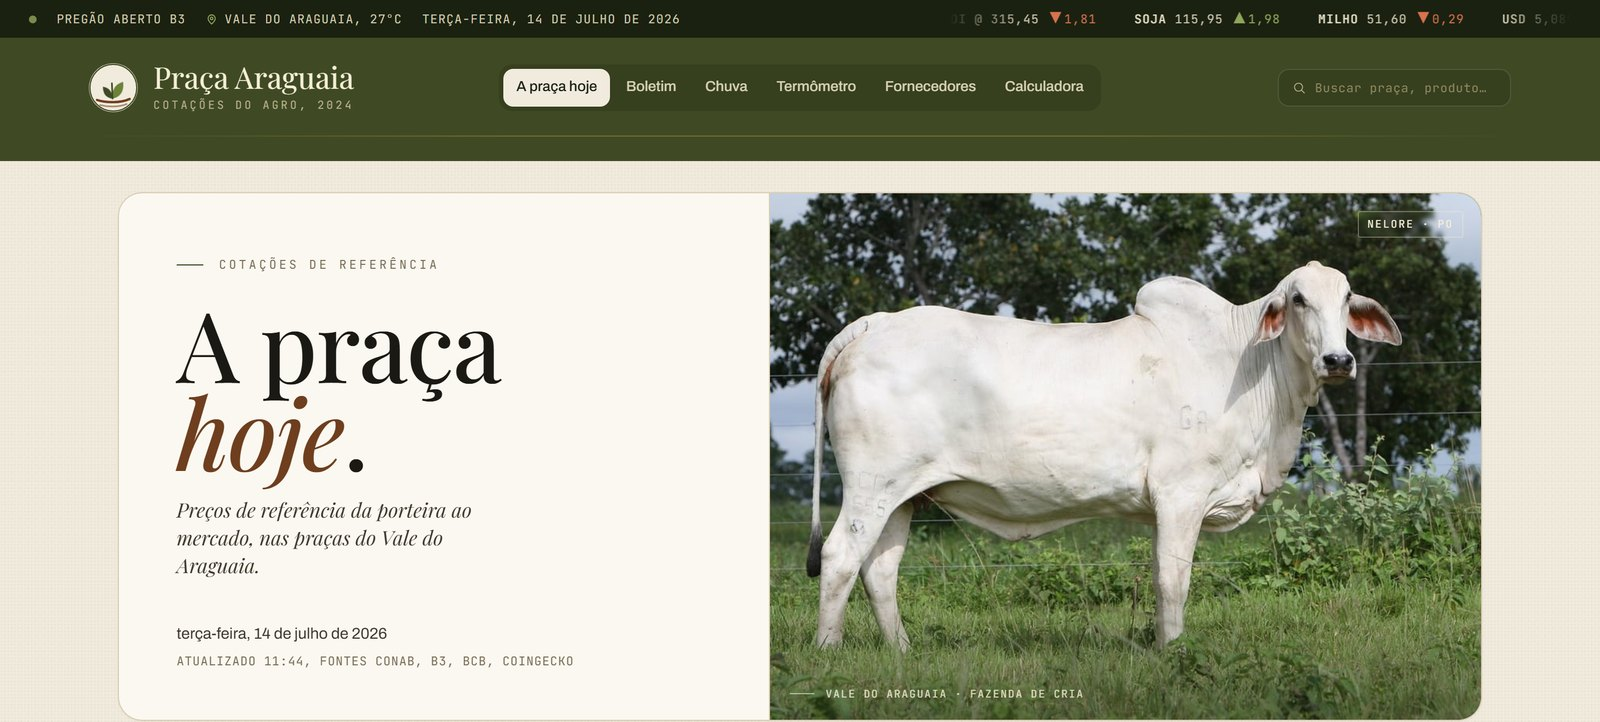
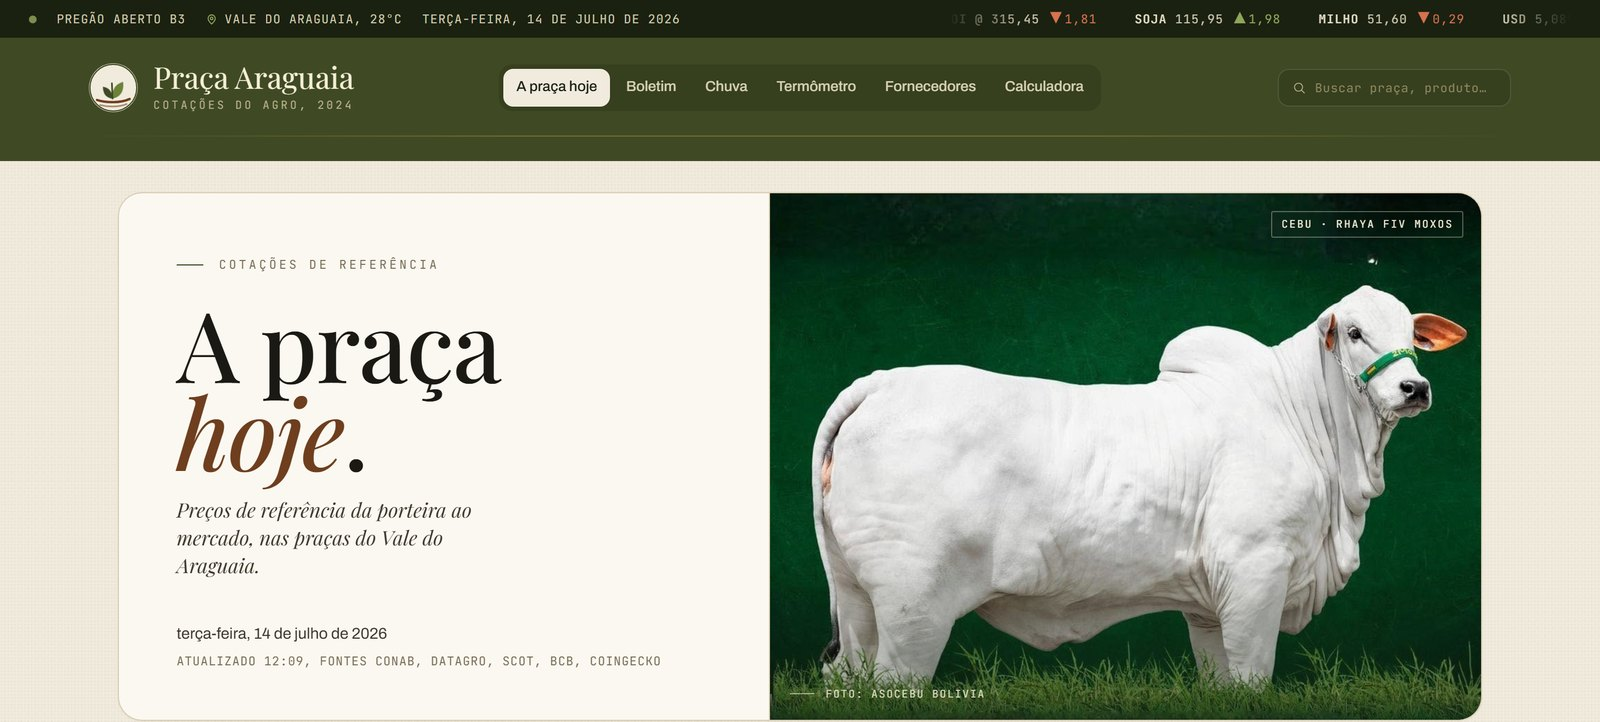
fix(telegram): URL unica por envio + hero com o cebu Rhaya FIV Moxos
O card do Telegram chegava com o layout antigo mesmo depois do deploy: o Telegram
cacheia foto remota POR URL, e a nossa so variava por dia (?d=<data>). Como o cron
das 8h ja tinha enviado aquela URL de manha, o reenvio no mesmo dia devolvia o
arquivo que ele ja tinha baixado. Agora a URL leva tambem o minuto do envio, o que
fura o cache do Telegram e o do CDN (s-maxage 1h).

Hero: entra o touro cebu Rhaya FIV Moxos. Foto de terceiro — o credito ao Asocebu
Bolivia fica na propria imagem, e a legenda deixou de dizer "Vale do Araguaia ·
fazenda de cria", que seria falso para um animal nascido na Bolivia. Enquadramento
ajustado (a foto e quadrada num quadro paisagem): sobra grama embaixo e a cabeca
nao encosta na borda.

README: prints refeitos com o hero novo.

diff --git a/app/globals.css b/app/globals.css
@@ -228,7 +228,9 @@ body { font-size: 14px; }
 .hero .meta .big{font-family:var(--sans);font-size:14px;color:var(--ink-2)}
 .hero .meta .mono{font-family:var(--mono);font-size:11px;letter-spacing:.05em;text-transform:uppercase;color:var(--muted)}
 .hero .photo{position:relative;overflow:hidden;border-left:1px solid var(--rule);background:var(--olive-deep)}
-.hero .photo img{position:absolute;inset:0;width:100%;height:100%;object-fit:cover;object-position:60% 40%}
+/* A foto do cebu é quadrada num quadro paisagem: o corte tem de sobrar grama embaixo
+   e não encostar a cabeça na borda direita. */
+.hero .photo img{position:absolute;inset:0;width:100%;height:100%;object-fit:cover;object-position:45% 58%}
 .hero .photo .overlay{position:absolute;inset:0;background:linear-gradient(0deg,rgba(24,32,16,.42) 0%,rgba(24,32,16,0) 32%)}
 .tag{position:absolute;top:16px;right:16px;font-family:var(--mono);font-size:9.5px;letter-spacing:.14em;text-transform:uppercase;color:#F6EFD8;border:1px solid rgba(246,239,216,.35);border-radius:2px;padding:4px 8px;backdrop-filter:blur(2px)}
 .credit{position:absolute;left:18px;bottom:16px;display:flex;align-items:center;gap:10px;font-family:var(--mono);font-size:9.5px;letter-spacing:.12em;text-transform:uppercase;color:rgba(246,239,216,.85)}

diff --git a/tests/telegram-boletim.test.ts b/tests/telegram-boletim.test.ts
@@ -17,14 +17,21 @@ describe('legendaBoletim', () => {
 });
 
 describe('urlFotoBoletim', () => {
-  it('aponta pro boletim com cache-buster ?d= na data local', () => {
-    expect(urlFotoBoletim(AGORA)).toBe('https://agroapp-bay.vercel.app/api/boletim?d=2026-07-05');
+  it('aponta pro boletim com a data local', () => {
+    expect(urlFotoBoletim(AGORA)).toContain('https://agroapp-bay.vercel.app/api/boletim?d=2026-07-05');
   });
 
   it('usa a data no fuso America/Araguaina, não UTC', () => {
     // 01:00 UTC ainda é 04/07 22:00 no Araguaia (-03:00)
-    expect(urlFotoBoletim(new Date('2026-07-05T01:00:00Z'))).toBe(
-      'https://agroapp-bay.vercel.app/api/boletim?d=2026-07-04',
-    );
+    expect(urlFotoBoletim(new Date('2026-07-05T01:00:00Z'))).toContain('?d=2026-07-04');
+  });
+
+  // O Telegram cacheia foto remota por URL: sem isto, um reenvio no mesmo dia
+  // devolvia o card antigo que ele já tinha baixado.
+  it('a URL muda a cada envio, para o Telegram não servir o card do cache', () => {
+    const a = urlFotoBoletim(new Date('2026-07-05T13:00:00Z'));
+    const b = urlFotoBoletim(new Date('2026-07-05T13:05:00Z'));
+    expect(a).not.toBe(b);
+    expect(a).toMatch(/&t=\d+$/);
   });
 });

diff --git a/app/page.tsx b/app/page.tsx
@@ -124,11 +124,12 @@ export default async function Home() {
           <SuaPraca />
         </div>
         <div className="photo">
+          {/* Foto de terceiro: o crédito ao Asocebu Bolivia fica na imagem, não é decorativo. */}
           {/* eslint-disable-next-line @next/next/no-img-element */}
-          <img src="/assets/hero-nelore.jpg" alt="Nelore no pasto do Vale do Araguaia" />
+          <img src="/assets/hero-cebu.jpg" alt="Rhaya FIV Moxos, touro cebu nascido na Bolívia" />
           <div className="overlay" />
-          <span className="tag">Nelore · PO</span>
-          <span className="credit">Vale do Araguaia · Fazenda de cria</span>
+          <span className="tag">Cebu · Rhaya FIV Moxos</span>
+          <span className="credit">Foto: Asocebu Bolivia</span>
         </div>
       </section>
 

diff --git a/lib/telegram-boletim.ts b/lib/telegram-boletim.ts
@@ -15,6 +15,10 @@ export function legendaBoletim(agora: Date): string {
 }
 
 export function urlFotoBoletim(agora: Date): string {
-  // ?d=<data local> é cache-buster: garante o boletim fresco do dia (CDN 1h).
-  return `${SITE}/api/boletim?d=${fmtDataIso.format(agora)}`;
+  // O Telegram cacheia foto remota POR URL: reenviar a mesma URL devolve o arquivo
+  // que ele já baixou, não o card novo. Com só ?d=<data>, um segundo envio no mesmo
+  // dia (depois de um deploy, por exemplo) reentregava o card velho. O minuto do
+  // envio torna a URL única — e também fura o cache do CDN (s-maxage 1h).
+  const minuto = Math.floor(agora.getTime() / 60_000);
+  return `${SITE}/api/boletim?d=${fmtDataIso.format(agora)}&t=${minuto}`;
 }

diff --git a/README.md b/README.md
@@ -70,7 +70,7 @@ Plataforma de **informação agropecuária** da região do Araguaia. No ar em **
   <tr>
     <td width="34%" valign="top" align="center">
       <img src="docs/screenshots/boletim.png" alt="Boletim do dia em PNG, enviado no Telegram" width="100%"><br>
-      <sub><b>Boletim</b> — PNG gerado no servidor (Satori) e disparado todo dia no Telegram: gado à esquerda, lavoura e mercado à direita.</sub>
+      <sub><b>Boletim</b> — PNG gerado no servidor (Satori) e disparado todo dia no Telegram: gado à esquerda, lavoura e mercado à direita. A URL da foto muda a cada envio, senão o Telegram reentrega o card que já tem em cache.</sub>
     </td>
     <td width="33%" valign="top" align="center">
       <img src="docs/screenshots/mobile.png" alt="Painel no celular" width="62%"><br>
@@ -128,7 +128,7 @@ Direção **"fazenda moderna premium"** — editorial, paleta terra, sem cara de
 | **Paleta** | Areia (`bone` `#F1EBDE`), papel (`#FBF8F1`), oliva (`#3F4A24`), couro (`#6E3E1E`), ocre (`#B4863B`); alta em **musgo** (`#6B8339`), baixa em **tijolo** (`#A63A26`) e chuva em **água** (`#45707C`) — nunca neon |
 | **Marca** | **"Broto no sulco"** — a folha nascendo da terra lavrada, num selo de osso com o anel oliva. Ela balança de leve no vento (some em `prefers-reduced-motion`) e fica parada no favicon, no card do bot e no OG. Desenho único em [`lib/marca.ts`](lib/marca.ts), consumido pelos quatro. |
 | **Navegação** | Menu inline no desktop; abaixo de 900px, **hambúrguer + gaveta lateral** (fecha no Esc, no fundo e ao navegar; trava o scroll enquanto aberta) |
-| **Assinatura** | Cards que abrem com a **foto do produto** (escurece e revela os dados), grão de papel sutil, filetes finos, ticker de pregão rolante e o hero com foto real de Nelore |
+| **Assinatura** | Cards que abrem com a **foto do produto** (escurece e revela os dados), grão de papel sutil, filetes finos, ticker de pregão rolante e o hero com o touro cebu **Rhaya FIV Moxos** (foto: [Asocebu Bolivia](https://www.facebook.com/asocebu.bolivia), creditada na própria imagem) |
 
 Os tokens vivem no `@theme` do Tailwind v4 (`app/globals.css`); os componentes do sistema estão em `components/redesign/`.
 
